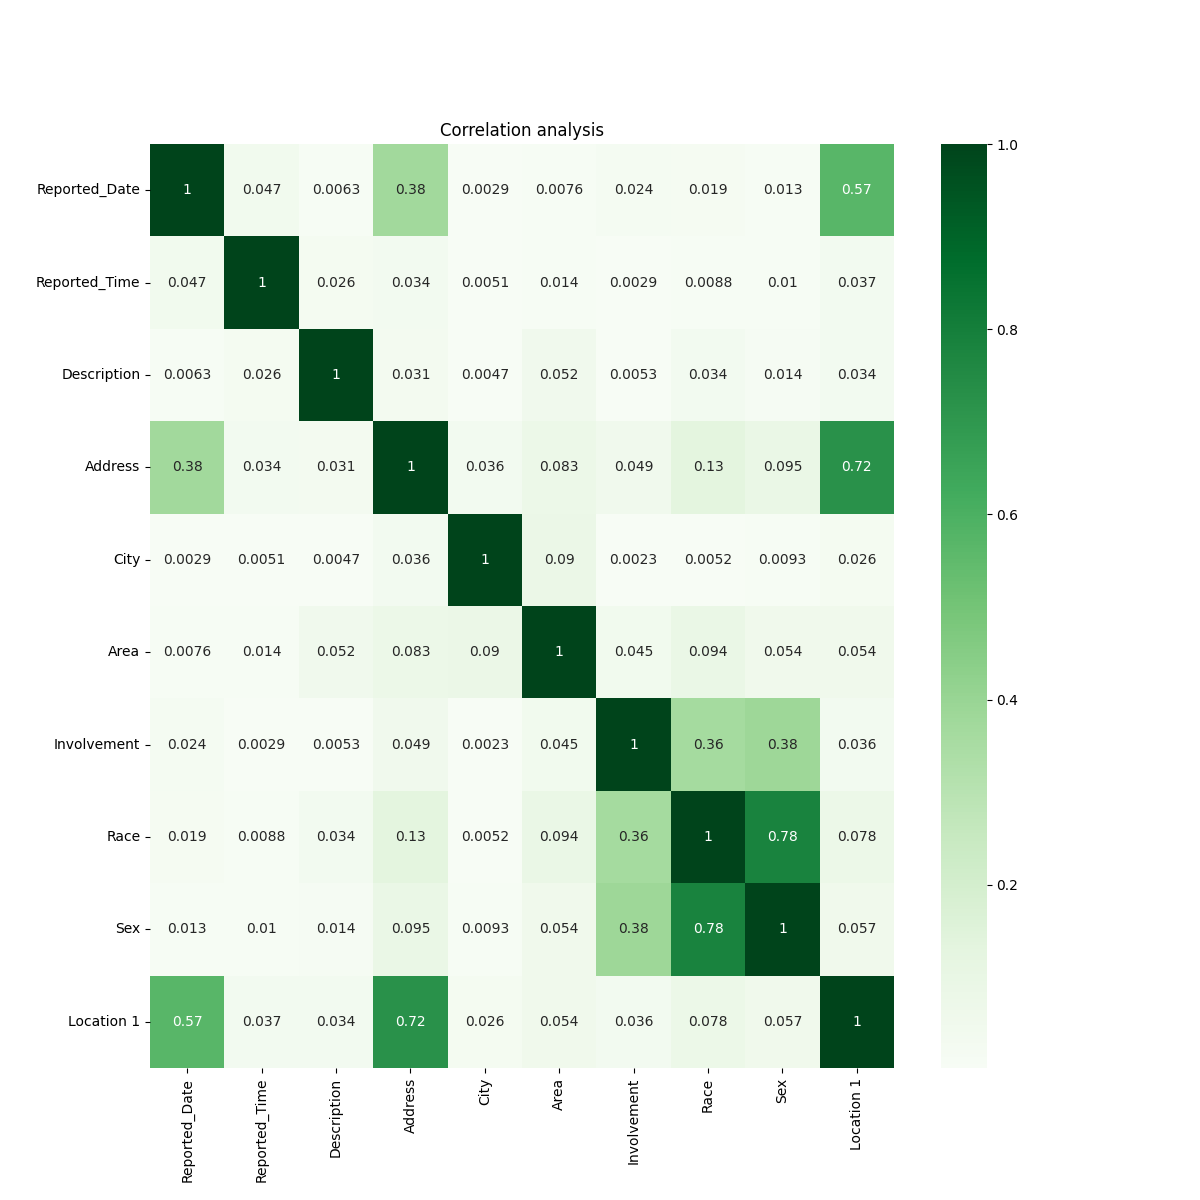
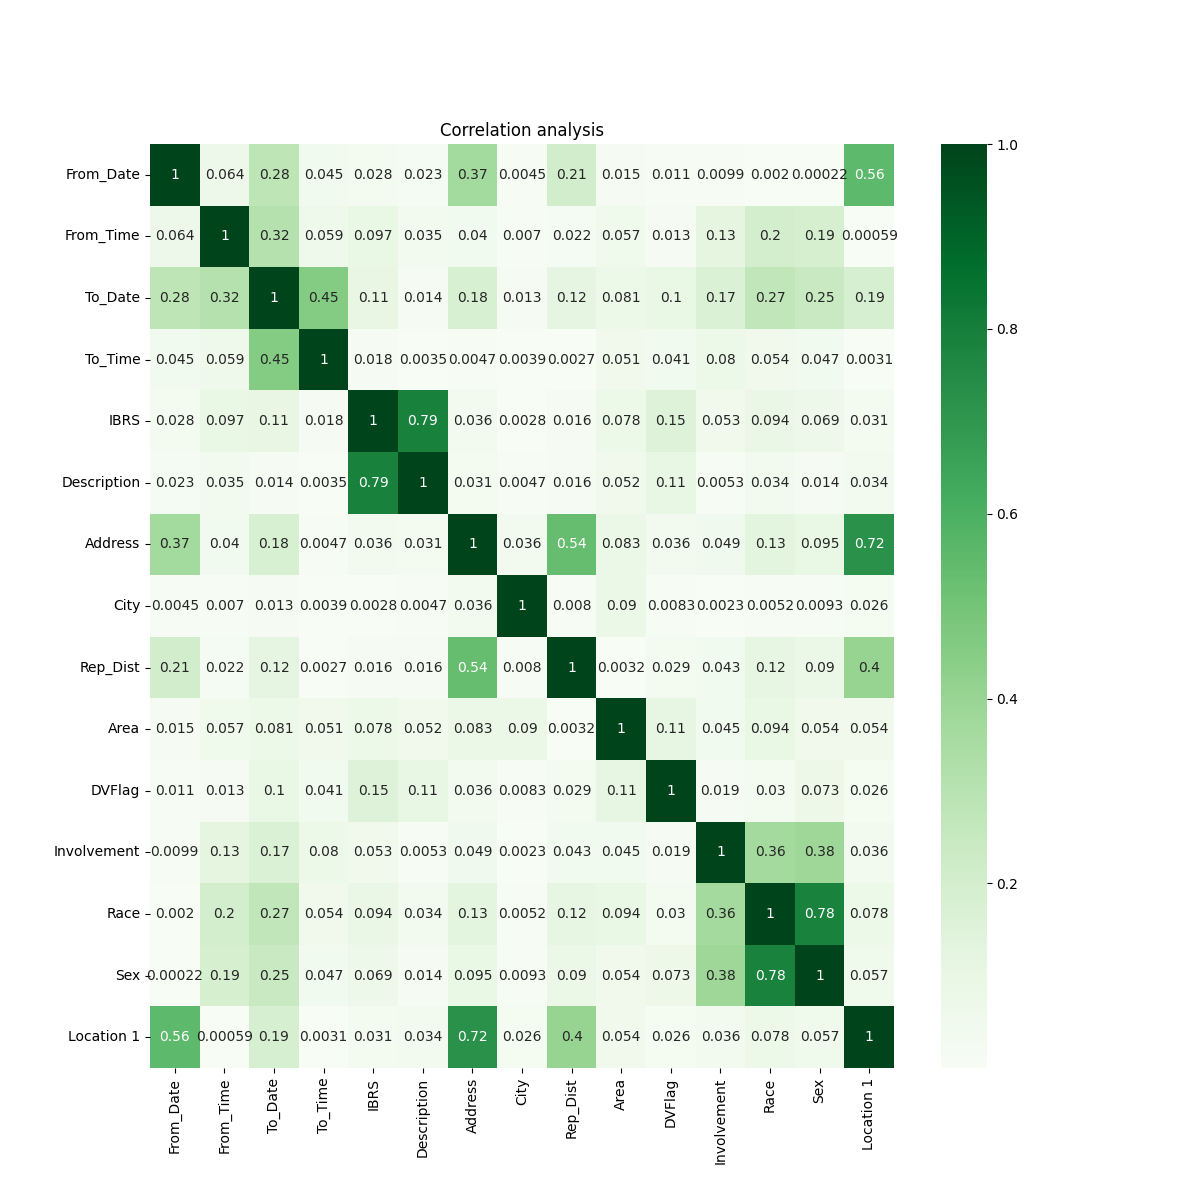
correlations

diff --git a/Crime Data/Data_Analysis.py b/Crime Data/Data_Analysis.py
@@ -4,15 +4,12 @@ import matplotlib.pyplot as plt
 import utils
 from seaborn import heatmap
 
-
-
-
-
-
 class Data_Analysis:
 
     def __init__(self, dataset):
         self.data = dataset.copy()
+        # Dict with names of columns of categories Numerical, Categorical, Symbolical and Date
+        self.variables_by_type = self._split_variables_by_type()
     '''
     Data Dimensionality gives number of records vs number of variables
     '''
@@ -47,9 +44,9 @@ class Data_Analysis:
                 data[c].astype('bool')
             elif data[c].dtype == 'datetime64':
                 variable_types['Date'].append(c)
-            elif c == "CRASH_DATE":
+            elif c == "Reported_Date":
                 variable_types['Date'].append(c)
-            elif c == "CRASH_TIME":
+            elif c == "Reported_Time":
                 variable_types['Date'].append(c)
             elif data[c].dtype == 'int':
                 variable_types['Numeric'].append(c)
@@ -116,32 +113,7 @@ class Data_Analysis:
     def data_distribution(self):
         data = self.data
         # Separate variables into types (split later into method)
-        cat_vars = data.select_dtypes(include='object')
-        data[cat_vars.columns] = data.select_dtypes(['object']).apply(lambda x: x.astype('category'))
-        variable_types: dict = {
-            'Numeric': [],
-            'Binary': [],
-            'Date': [],
-            'Symbolic': []
-        }
-        for c in data.columns:
-            uniques = data[c].dropna(inplace=False).unique()
-            if len(uniques) == 2:
-                variable_types['Binary'].append(c)
-                data[c].astype('bool')
-            elif data[c].dtype == 'datetime64':
-                variable_types['Date'].append(c)
-            elif c == "CRASH_DATE":
-                variable_types['Date'].append(c)
-            elif c == "CRASH_TIME":
-                variable_types['Date'].append(c)
-            elif data[c].dtype == 'int':
-                variable_types['Numeric'].append(c)
-            elif data[c].dtype == 'float':
-                variable_types['Numeric'].append(c)
-            else:
-                data[c].astype('category')
-                variable_types['Symbolic'].append(c)
+        variable_types = self.variables_by_type
         # First Part numerical variables
         # Boxplots for each variable and outliers by std (desvio padrao) e IQR
         outliers_iqr = []
@@ -168,8 +140,11 @@ class Data_Analysis:
         '''
         now number of records per value for both numerical and symbolic variables
         '''
-    def correlations(self):
+
+    def _split_variables_by_type(self):
         data = self.data
+        cat_vars = data.select_dtypes(include='object')
+        data[cat_vars.columns] = data.select_dtypes(['object']).apply(lambda x: x.astype('category'))
         variable_types: dict = {
             'Numeric': [],
             'Binary': [],
@@ -183,9 +158,9 @@ class Data_Analysis:
                 data[c].astype('bool')
             elif data[c].dtype == 'datetime64':
                 variable_types['Date'].append(c)
-            elif c == "CRASH_DATE":
+            elif c == "Reported_Date":
                 variable_types['Date'].append(c)
-            elif c == "CRASH_TIME":
+            elif c == "Reported_Time":
                 variable_types['Date'].append(c)
             elif data[c].dtype == 'int':
                 variable_types['Numeric'].append(c)
@@ -194,6 +169,11 @@ class Data_Analysis:
             else:
                 data[c].astype('category')
                 variable_types['Symbolic'].append(c)
+        return variable_types
+
+    def correlations(self):
+        data = self.data
+        variable_types = self.variables_by_type
         # delete later repeated code
         symbolic_vars = data[variable_types['Symbolic']].copy()
         corr_mtx = symbolic_vars.apply(lambda x: pd.factorize(x)[0]).corr(method='pearson', min_periods=1)
@@ -202,16 +182,33 @@ class Data_Analysis:
         plt.title('Correlation analysis')
         plt.savefig('Data_Profiling/Correlation/correlation_analysis_symbolic.png')
         plt.show()
+        fig = plt.figure(figsize=[12, 12])
+        corr_mtx = abs(data.corr())
+        heatmap(abs(corr_mtx), xticklabels=corr_mtx.columns, yticklabels=corr_mtx.columns, annot=True, cmap='Blues')
+        plt.title('Correlation analysis')
+        plt.savefig(f'Data_Profiling/Correlation/correlations_numeric.png')
         # now for the other types
         # question: can we do correlations between types of different kind?
 
+    def each_variable_vs_date(self):
+        data = self.data.copy()
+        variable_types = self.variables_by_type
+        for variable in variable_types['Numeric']:
+            fig, ax = plt.subplots(figsize=(10, 8))
+            ax.plot(data['Reported_Date'], data[variable])
+            plt.title(variable + 'vs Date')
+            plt.savefig('Data_Profiling/Distribution/VS_DATE' + variable + 'vsDate.png')
+
     def data_profiling(self):
+        '''
         self.data_dimensionality()
         self.number_of_variables_per_type()
         self.missing_values()
         self.data_granularity()
         self.data_distribution()
         self.correlations()
+        '''
+        self.each_variable_vs_date()
 
 
 

diff --git a/Crime Data/main.py b/Crime Data/main.py
@@ -10,10 +10,12 @@ from sklearn.svm import SVC
 if __name__ == '__main__':
     # read data set
     df = pd.read_csv("./input/KCPD_Crime_Data_2016.csv", sep=',')
-    df.drop(['From_Date', 'From_Time', 'To_Date', 'To_Time', 'IBRS', 'Beat', 'Rep_Dist','DVFlag', 'Invl_No'], axis=1, inplace=True)
+    #df.drop(['From_Date', 'From_Time', 'To_Date', 'To_Time', 'IBRS', 'Beat', 'Rep_Dist','DVFlag', 'Invl_No'], axis=1, inplace=True)
     df = df.sort_values(["Reported_Date","Reported_Time"])
+    df["Reported_Date"] = pd.to_datetime(df["Reported_Date"])
+    print(df.head(10)[['Reported_Date','Reported_Time']])
     train, test = train_test_split(df, test_size=0.85, shuffle=False)
-
+    df["Reported_Date"] = pd.to_datetime(df["Reported_Date"])
     da = Data_Analysis.Data_Analysis(df)
     da.data_profiling()
 
